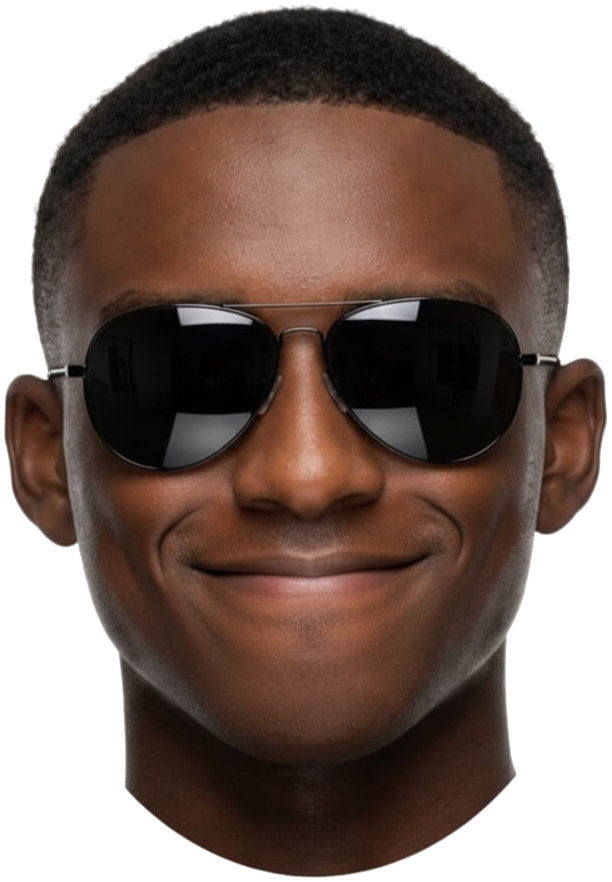
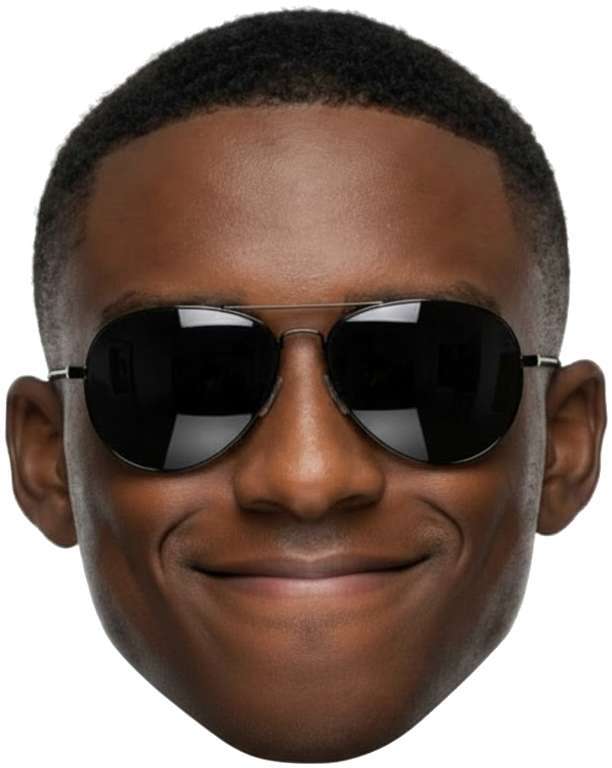
Visages détourés sans cou (style sticker) pour moi-500f
scripts/face.mjs fait une deuxième passe qui coupe le visage net le long
de la mâchoire et du menton ; option --retrim pour les têtes existantes.

Claude-Session: https://claude.ai/code/session_01EDm6w3eLkgYtd3hbUwd1YU

diff --git a/src/videos/moi-500f.tsx b/src/videos/moi-500f.tsx
@@ -490,7 +490,7 @@ const SceneGains: React.FC<SceneProps> = ({ at, slug }) => {
   const amounts: [string, number, number, number, string][] = [
     ["2 000 F", at("deux"), 290, 440, col.yellow],
     ["5 000 F", at("cinq", 1), 790, 540, col.orange],
-    ["10 000 F CFA", at("dix"), 540, 760, col.green],
+    ["10 000 F CFA", at("dix"), 540, 690, col.green],
   ];
   return (
     <AbsoluteFill>
@@ -503,7 +503,7 @@ const SceneGains: React.FC<SceneProps> = ({ at, slug }) => {
           </Pop>
         ) : (
           <Pop key={t} at={a} x={x} y={y} rotate={-3} z={4}>
-            <Burst size={600} fill={bg}>
+            <Burst size={540} fill={bg}>
               <div style={{ textAlign: "center" }}>
                 <div style={comic(78, "#fff")}>10 000 F</div>
                 <div style={{ ...comic(46, "#fff"), marginTop: 8 }}>PAR JOUR</div>
@@ -515,7 +515,7 @@ const SceneGains: React.FC<SceneProps> = ({ at, slug }) => {
       <Pop at={at("publicitaires", 1)} x={850} y={1000} rotate={5} z={5}>
         <Tag text="Selon ton trafic" bg="#fff" size={40} />
       </Pop>
-      <CoinBurst at={at("dix")} x={540} y={760} count={14} size={76} />
+      <CoinBurst at={at("dix")} x={540} y={690} count={14} size={76} />
       <Me
         slug={slug}
         x={540}
